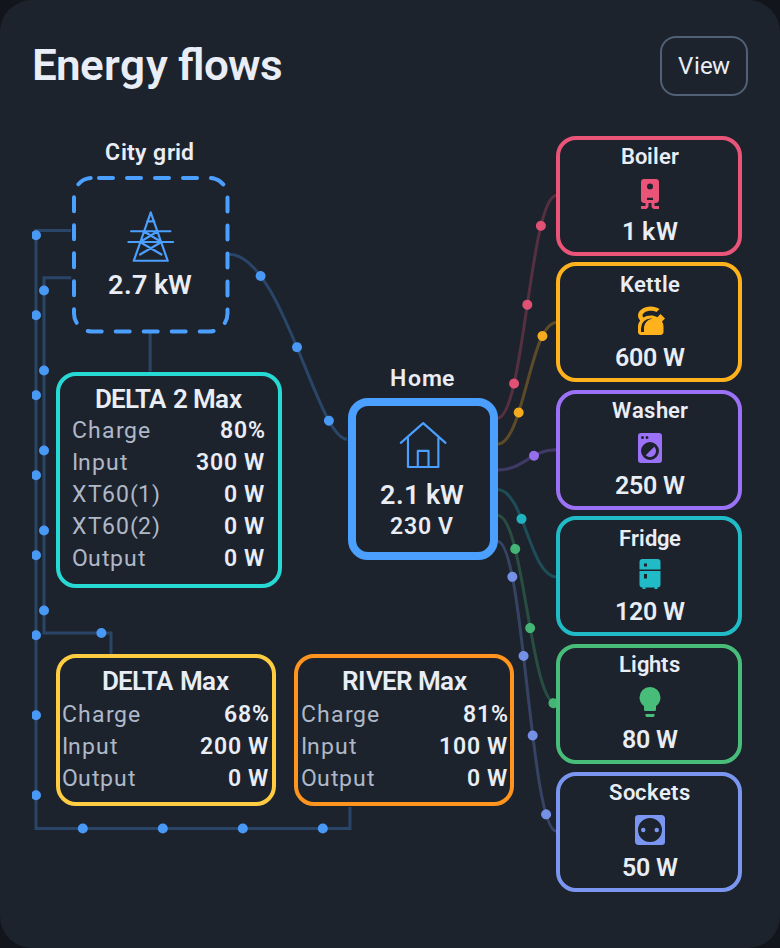
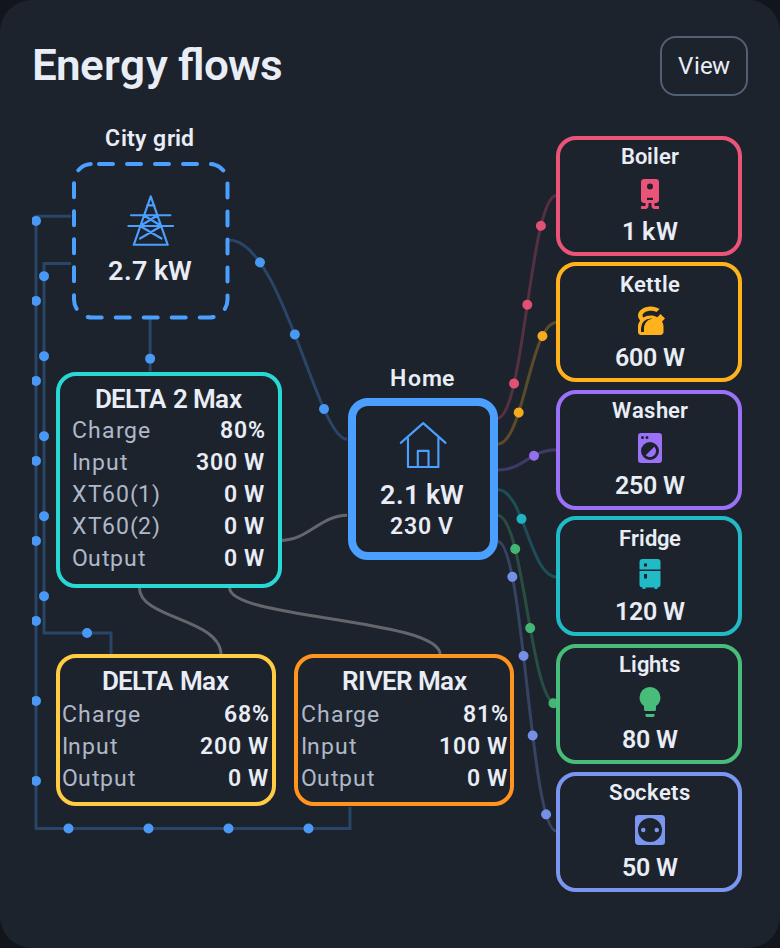
Beta 2.1.3: show grey inactive flows and slightly raise the city grid

diff --git a/suris-ecoflow-flow-card.js b/suris-ecoflow-flow-card.js
@@ -1,8 +1,8 @@
-/* Suris EcoFlow Flow Card v2.1.3-beta.2 | MIT | No external dependencies. */
+/* Suris EcoFlow Flow Card v2.1.3-beta.3 | MIT | No external dependencies. */
 (() => {
   'use strict';
   const TAG = 'suris-ecoflow-flow-card';
-  const VERSION = '2.1.3-beta.2';
+  const VERSION = '2.1.3-beta.3';
   const ANIMATIONS = ['dashes', 'dots', 'arrows', 'pulse', 'single_dot'];
   const NS = 'http://www.w3.org/2000/svg';
   let cardSequence = 0;
@@ -185,7 +185,7 @@
     *{box-sizing:border-box}ha-card{display:block;overflow:hidden;background:var(--ha-card-background,var(--card-background-color,#1c1c1c));color:var(--primary-text-color,#e8e8e8);padding:16px;border-radius:var(--ha-card-border-radius,16px)}
     .wrap{container-type:inline-size}h2{font-size:22px;font-weight:600;margin:0}.card-header{display:flex;align-items:center;justify-content:space-between;gap:8px;margin-bottom:8px}.card-header h2{min-width:0;overflow-wrap:anywhere}.layout-switch{flex:none;font:inherit;font-size:12px;color:inherit;background:transparent;border:1px solid var(--divider-color,#60656d);border-radius:8px;padding:5px 8px;cursor:pointer}.layout-switch[hidden]{display:none}.layout-switch:focus-visible{outline:2px solid var(--flow-main);outline-offset:2px}.diagram{position:relative;height:clamp(540px,65cqw,720px)}
     .lines{position:absolute;inset:0;width:100%;height:100%;overflow:visible;pointer-events:none}
-    .flow path{fill:none;stroke:color-mix(in srgb,var(--primary-text-color,#9aa0a6) 55%,transparent);stroke-width:1.5;stroke-linejoin:miter;stroke-linecap:butt;opacity:.40}.flow .flow-track{visibility:hidden}.flow.active .flow-track{stroke:var(--color);opacity:.28;visibility:visible}.flow .flow-dashes{stroke:var(--color);stroke-width:3;stroke-linecap:round;stroke-dasharray:7 21;opacity:.95;visibility:hidden}.flow.active .flow-dashes{visibility:visible}
+    .flow path{fill:none;stroke:color-mix(in srgb,var(--primary-text-color,#9aa0a6) 55%,transparent);stroke-width:1.5;stroke-linejoin:miter;stroke-linecap:butt;opacity:.40}.flow .flow-track{stroke:#9e9e9e;opacity:.55;visibility:visible}.flow.active .flow-track{stroke:var(--color);opacity:.28;visibility:visible}.flow .flow-dashes{stroke:var(--color);stroke-width:3;stroke-linecap:round;stroke-dasharray:7 21;opacity:.95;visibility:hidden}.flow.active .flow-dashes{visibility:visible}
     .node{position:absolute;display:flex;flex-direction:column;justify-content:center;gap:7px;min-width:0;background:transparent;background:color-mix(in srgb,var(--ha-card-background,var(--card-background-color,#1c1c1c)) 8%,transparent);border:2px solid var(--node-color,var(--divider-color,#60656d));border-radius:12px;padding:12px 10px;z-index:1;min-height:140px;height:auto}
     .flow .flow-particle{fill:var(--color);stroke:none;opacity:.95;visibility:hidden;offset-anchor:0px 0px;offset-rotate:auto}.flow.active .flow-particle{visibility:visible}
     .node.supplying{border-color:transparent}.node-border{position:absolute;overflow:visible;pointer-events:none;display:none;z-index:2}.node-border.active{display:block}.node-border path{fill:none;stroke:var(--node-color);stroke-width:2;stroke-linecap:round;stroke-dasharray:7 7}
@@ -465,7 +465,7 @@
       };
       const gridSize = Math.max(74, Math.min(110, 88 * sx));
       const gridTitleSpace = this._config.grid.show_name ? Math.ceil(this._nodes.grid.querySelector('h3').getBoundingClientRect().height) + 6 : 0;
-      place(this._nodes.grid, Math.max(14, 22 * sx), 12 * sy + gridTitleSpace, gridSize, gridSize);
+      place(this._nodes.grid, Math.max(14, 22 * sx), 4 * sy + gridTitleSpace, gridSize, gridSize);
       place(this._nodes.main, Math.max(12, 10 * sx), 0, 126 * sx);
       place(this._nodes.home, 176 * sx, 0, 84 * sx);
       this._nodes.home.style.minHeight = `${90 * sy}px`;

diff --git a/demo.html b/demo.html
@@ -1,5 +1,5 @@
 <!doctype html>
-<html lang="uk"><head><meta charset="utf-8"><meta name="viewport" content="width=device-width,initial-scale=1"><title>Suris EcoFlow Flow Card 2.1.3-beta.2 — Demo</title>
+<html lang="uk"><head><meta charset="utf-8"><meta name="viewport" content="width=device-width,initial-scale=1"><title>Suris EcoFlow Flow Card 2.1.3-beta.3 — Demo</title>
 <style>body{margin:20px auto;padding:0 12px;max-width:1060px;background:#111;color:#eee;font:16px system-ui;--ha-card-background:#1c1c1c;--primary-text-color:#eee;--secondary-text-color:#aaa;--divider-color:#535861}nav{display:flex;gap:8px;flex-wrap:wrap;margin:16px 0}button{background:#222;border:1px solid #666;color:#eee;padding:10px 14px;border-radius:8px;cursor:pointer}button:focus-visible{outline:2px solid #27d9d5}p{color:#aaa;font-size:13px}</style>
 </head><body><nav><button data-mode="main">Дім від EcoFlow</button><button data-mode="aux3">Передача EcoFlow №3</button><button data-mode="grid">Дім від мережі</button><button data-mode="charging">Заряджання від мережі</button><button data-mode="replace">Заміна сильнішим приладом</button><button data-mode="single">Один ряд приладів</button><button data-mode="idle">Прилади вимкнені</button><button data-mode="unknown">Джерело недоступне</button></nav><div style="display:flex;gap:18px;flex-wrap:wrap;margin:12px 0"><label>Анімація потоків <select id="animation"><option value="dashes">Поточна анімація (штрихи)</option><option value="dots">Рухомі точки</option><option value="arrows">Рухомі стрілки</option><option value="pulse">Пульсуючі світлові смуги</option><option value="single_dot">Одна рухома точка</option></select></label><label>Розмір точок <input id="dot-size" type="range" min="2" max="10" value="5"><output id="size-output">5 px</output></label></div><suris-ecoflow-flow-card></suris-ecoflow-flow-card><p>Демонстраційні показники. Для встановлення відкрий README.md.</p>
 <script src="./suris-ecoflow-flow-card.js"></script><script>

diff --git a/README.md b/README.md
@@ -1,6 +1,6 @@
-# Suris EcoFlow Flow Card 2.1.3-beta.2
+# Suris EcoFlow Flow Card 2.1.3-beta.3
 
-[English](README_EN.md) · [Стабільний реліз 2.1.1](https://github.com/Suris2009/suris-ecoflow-flow-card/releases/tag/v2.1.1) · [Завантажити JS](https://github.com/Suris2009/suris-ecoflow-flow-card/releases/download/v2.1.3-beta.2/suris-ecoflow-flow-card.js)
+[English](README_EN.md) · [Стабільний реліз 2.1.1](https://github.com/Suris2009/suris-ecoflow-flow-card/releases/tag/v2.1.1) · [Завантажити JS](https://github.com/Suris2009/suris-ecoflow-flow-card/releases/download/v2.1.3-beta.3/suris-ecoflow-flow-card.js)
 
 **Бета на базі 2.1.1.** У HACS увімкни показ бета-версій. [Зміни](RELEASE_NOTES.md).
 
@@ -13,7 +13,7 @@
 - **Окремі маршрути до приладів.** У «Боковому потоці» кожен споживач має повну власну лінію від дому в кольорі приладу. У класичному вигляді точки та стрілки проходять спільну лінію й повертають до свого споживача.
 - **Настроювані кольори.** Окремі кольори міської мережі, кожної станції та кожного приладу. Є готові зразки, палітра, змішування відтінку, насиченості й яскравості та повернення типового кольору. Рамка дому автоматично має колір його джерела живлення.
 - **П’ять анімацій.** Рухомі штрихи, точки, стрілки, пульсуючі світлові смуги та одна рухома точка. Розмір точок регулюється від 2 до 10 px.
-- **Регулювання швидкості та порога активності.** Загальну швидкість руху можна змінювати в редакторі, а кожна лінія додатково реагує на свою потужність. Оновлення показників змінює швидкість без перезапуску анімації. Неактивні лінії приховані.
+- **Регулювання швидкості та порога активності.** Загальну швидкість руху можна змінювати в редакторі, а кожна лінія додатково реагує на свою потужність. Оновлення показників змінює швидкість без перезапуску анімації. Неактивні лінії залишаються видимими, сірими й нерухомими.
 - **Усі основні показники.** Заряд, вхід і вихід трьох станцій; два входи XT60(1)/XT60(2) головної EcoFlow. Для дому — потужність і необов’язковий датчик напруги. Значення автоматично відображаються у W або kW.
 - **Автоматичне визначення живлення дому.** Джерело визначається за показаннями потужності. Окремий датчик потужності дому необов’язковий: картка може використовувати вихід головної EcoFlow або розрахунок від мережі з відніманням заряджання станцій.
 - **Попередження про відсутність мережі.** За налаштованим датчиком у блоці мережі блимає напис «Мережі немає». Джерела, що віддають енергію, мають рухомі пунктирні рамки за годинниковою стрілкою; рамка дому залишається суцільною.
@@ -36,11 +36,11 @@
 
 ## Встановлення та оновлення
 
-Додай `https://github.com/Suris2009/suris-ecoflow-flow-card` як користувацький репозиторій HACS для карток панелі огляду (Dashboard), встанови **2.1.3-beta.2** та перезавантаж інтерфейс Home Assistant. Додай картку **Suris EcoFlow Flow Card** на панель і вибери сутності у візуальному редакторі.
+Додай `https://github.com/Suris2009/suris-ecoflow-flow-card` як користувацький репозиторій HACS для карток панелі огляду (Dashboard), встанови **2.1.3-beta.3** та перезавантаж інтерфейс Home Assistant. Додай картку **Suris EcoFlow Flow Card** на панель і вибери сутності у візуальному редакторі.
 
 Ресурс HACS: `/hacsfiles/suris-ecoflow-flow-card/suris-ecoflow-flow-card.js`, тип **JavaScript module**. Якщо ресурс уже додано, використовується той самий файл.
 
-Для ручного встановлення завантаж JS-файл із релізу, поклади його до `www` у каталозі конфігурації Home Assistant та додай ресурс `/local/suris-ecoflow-flow-card.js?v=2.1.3-beta.2` типу **JavaScript module**. Якщо каталог `www` створено вперше, перезапусти Home Assistant.
+Для ручного встановлення завантаж JS-файл із релізу, поклади його до `www` у каталозі конфігурації Home Assistant та додай ресурс `/local/suris-ecoflow-flow-card.js?v=2.1.3-beta.3` типу **JavaScript module**. Якщо каталог `www` створено вперше, перезапусти Home Assistant.
 
 При оновленні зі стабільної 2.0.8 або бети 2.1 налаштування сутностей, приладів, кольорів і анімації зберігаються. Наявні картки початково використовують класичне розташування; збережений у браузері вибір бокового вигляду також залишається. Дублювати картку чи JS-ресурс не потрібно.
 
@@ -123,7 +123,7 @@ appearance:
 
 Колір джерела застосовується до його рамки й вихідних потоків. Дім має колір активного джерела; у боковому вигляді індивідуальні лінії мають кольори приладів. Активні рамки джерел рухаються за годинниковою стрілкою; рамка дому товща, суцільна й нерухома.
 
-Анімації виконує браузер без покадрових JavaScript-таймерів. При приховуванні неактивної лінії або від’єднанні картки рух призупиняється. За системного зменшення руху активні лінії статичні.
+Анімації виконує браузер без покадрових JavaScript-таймерів. На неактивних лініях або після від’єднання картки рух призупиняється. За системного зменшення руху активні лінії статичні.
 
 ## Демонстрація та перевірки
 

diff --git a/RELEASE_NOTES.md b/RELEASE_NOTES.md
@@ -1,29 +1,23 @@
-# 2.1.3-beta.2 — Minimal changes to 2.1.1 / Мінімальні зміни до 2.1.1
+# 2.1.3-beta.3 — Grey inactive flows / Сірі неактивні потоки
 
 ## Українська
 
-Випуск підготовлено заново з вихідної стабільної версії **2.1.1**.
+Дві зміни від **2.1.3-beta.2**:
 
-- Прибрано рядок «Мережа» з головної станції.
-- Допоміжні станції розширено для показників до **1,25 kW** в одному рядку. Розмір шрифту збережено, ширина не залежить від показань датчиків.
-- Вихід потоку місто → дім розміщено по центру правої сторони міського блоку.
+- Неактивні потоки показано нерухомими сірими лініями в обох виглядах. Активні потоки зберігають свої кольори та анімації.
+- У боковому вигляді міську мережу піднято на 8 px з урахуванням масштабу картки, щоб трохи подовжити лінію до головної станції. Вихід до дому залишається по центру міського блоку.
 
-Форма кривих потоків, положення нижнього ряду, анімації та розрахунки залишаються як у 2.1.1. AC-датчик залишається в налаштуваннях для розрахунків і потоку заряджання головної станції.
+Інші блоки, ширина допоміжних станцій, форма кривих, шрифти, налаштування та розрахунки збережені.
 
-На вузьких екранах із 5–6 приладами ширші допоміжні блоки та їхні потоки можуть накладатися на нижні прилади. Нижній ряд зберігає початкове розташування 2.1.1.
-
-<img src="https://raw.githubusercontent.com/Suris2009/suris-ecoflow-flow-card/v2.1.3-beta.2/preview-sideflow-feedback-uk.png" width="390" alt="Початкові криві потоків 2.1.1 з трьома мінімальними змінами">
+<img src="https://raw.githubusercontent.com/Suris2009/suris-ecoflow-flow-card/v2.1.3-beta.3/preview-sideflow-feedback-uk.png" width="390" alt="Сірі неактивні потоки та трохи піднятий міський блок">
 
 ## English
 
-Rebuilt from the original stable **2.1.1** source.
+Two changes from **2.1.3-beta.2**:
 
-- Remove the Grid row from the main station.
-- Widen the auxiliary stations to display readings up to **1.25 kW** on one line. Retain the text size and fixed widths independent of sensor readings.
-- Place the city-to-Home outlet at the midpoint of the city block's right edge.
+- Show inactive flows as stationary grey lines in both views. Active flows retain their colors and animations.
+- In Side flow, raise the city grid by 8 px, scaled with the card, to slightly lengthen the line to the main station. The Home outlet remains at the city block's midpoint.
 
-Flow curves, the lower-row position, animations and power calculations retain their 2.1.1 behavior. The AC entity remains configured for calculations and the main station's grid charging flow.
+Other blocks, auxiliary station widths, flow curves, fonts, settings and calculations are retained.
 
-On narrow screens with 5–6 consumers, wider auxiliary blocks and their flows may overlap lower consumers. The lower row retains its original 2.1.1 position.
-
-<img src="https://raw.githubusercontent.com/Suris2009/suris-ecoflow-flow-card/v2.1.3-beta.2/preview-sideflow-feedback-en.png" width="390" alt="Original 2.1.1 flow curves with three minimal changes">
+<img src="https://raw.githubusercontent.com/Suris2009/suris-ecoflow-flow-card/v2.1.3-beta.3/preview-sideflow-feedback-en.png" width="390" alt="Grey inactive flows and a slightly raised city block">

diff --git a/README_EN.md b/README_EN.md
@@ -1,6 +1,6 @@
-# Suris EcoFlow Flow Card 2.1.3-beta.2
+# Suris EcoFlow Flow Card 2.1.3-beta.3
 
-[Українська](README.md) · [Stable release 2.1.1](https://github.com/Suris2009/suris-ecoflow-flow-card/releases/tag/v2.1.1) · [Download JS](https://github.com/Suris2009/suris-ecoflow-flow-card/releases/download/v2.1.3-beta.2/suris-ecoflow-flow-card.js)
+[Українська](README.md) · [Stable release 2.1.1](https://github.com/Suris2009/suris-ecoflow-flow-card/releases/tag/v2.1.1) · [Download JS](https://github.com/Suris2009/suris-ecoflow-flow-card/releases/download/v2.1.3-beta.3/suris-ecoflow-flow-card.js)
 
 **Beta based on 2.1.1.** Enable beta versions in HACS. [Changes](RELEASE_NOTES.md).
 
@@ -13,7 +13,7 @@ A Home Assistant energy flow card that brings the city grid, three EcoFlow stati
 - **Complete routes to each device.** In Side flow, every consumer has a separate, complete line from Home in its own color. In Classic, dots and arrows follow the shared feeder and turn into the appropriate consumer branch.
 - **Custom colors.** Set separate colors for the city grid, each station and each device. Choose presets, use a palette, mix hue, saturation and lightness, or restore defaults. Home’s border automatically takes the color of its power source.
 - **Five animations.** Moving dashes, dots, arrows, pulsing light strips and one moving dot. Dot size is adjustable from 2 to 10 px.
-- **Adjustable speed and activity threshold.** Set the overall movement speed in the editor; each line also responds to its own power. Live readings adjust speed without restarting the animation. Inactive connections stay hidden.
+- **Adjustable speed and activity threshold.** Set the overall movement speed in the editor; each line also responds to its own power. Live readings adjust speed without restarting the animation. Inactive connections remain visible as stationary grey lines.
 - **All key readings.** Battery charge, input and output for three stations; two XT60(1)/XT60(2) inputs for the main EcoFlow. Home shows power and optional voltage. Values automatically use W or kW.
 - **Automatic Home source detection.** Power readings determine the source. A separate Home power sensor is optional: the card can use main EcoFlow output or calculate Home demand from grid power minus station charging.
 - **Grid outage warning.** An optional availability sensor triggers a pulsing No grid message inside the grid block. Supplying sources have clockwise moving dashed borders; Home retains a solid border.
@@ -36,11 +36,11 @@ Screenshots of the actual card with demonstration readings. Station names, entit
 
 ## Installation and upgrades
 
-Add `https://github.com/Suris2009/suris-ecoflow-flow-card` as a HACS custom Dashboard repository, install **2.1.3-beta.2**, and reload the Home Assistant frontend. Add **Suris EcoFlow Flow Card** to your dashboard and select entities in the visual editor.
+Add `https://github.com/Suris2009/suris-ecoflow-flow-card` as a HACS custom Dashboard repository, install **2.1.3-beta.3**, and reload the Home Assistant frontend. Add **Suris EcoFlow Flow Card** to your dashboard and select entities in the visual editor.
 
 HACS resource: `/hacsfiles/suris-ecoflow-flow-card/suris-ecoflow-flow-card.js`, type **JavaScript module**. An existing resource continues to use the same file.
 
-For manual installation, download the release JS file, put it in `www` under your Home Assistant configuration directory, and add `/local/suris-ecoflow-flow-card.js?v=2.1.3-beta.2` as a **JavaScript module** resource. Restart Home Assistant if you have just created `www` for the first time.
+For manual installation, download the release JS file, put it in `www` under your Home Assistant configuration directory, and add `/local/suris-ecoflow-flow-card.js?v=2.1.3-beta.3` as a **JavaScript module** resource. Restart Home Assistant if you have just created `www` for the first time.
 
 Upgrading from stable 2.0.8 or a 2.1 beta retains entities, consumers, colors and animation settings. Existing configurations initially use Classic; a Side flow selection already saved in the browser is also retained. No duplicate card or resource is needed.
 

diff --git a/CHANGELOG.md b/CHANGELOG.md
@@ -1,3 +1,27 @@
+# 2.1.3-beta.3 — Grey inactive flows / Сірі неактивні потоки
+
+## Українська
+
+Дві зміни від **2.1.3-beta.2**:
+
+- Неактивні потоки показано нерухомими сірими лініями в обох виглядах. Активні потоки зберігають свої кольори та анімації.
+- У боковому вигляді міську мережу піднято на 8 px з урахуванням масштабу картки, щоб трохи подовжити лінію до головної станції. Вихід до дому залишається по центру міського блоку.
+
+Інші блоки, ширина допоміжних станцій, форма кривих, шрифти, налаштування та розрахунки збережені.
+
+<img src="https://raw.githubusercontent.com/Suris2009/suris-ecoflow-flow-card/v2.1.3-beta.3/preview-sideflow-feedback-uk.png" width="390" alt="Сірі неактивні потоки та трохи піднятий міський блок">
+
+## English
+
+Two changes from **2.1.3-beta.2**:
+
+- Show inactive flows as stationary grey lines in both views. Active flows retain their colors and animations.
+- In Side flow, raise the city grid by 8 px, scaled with the card, to slightly lengthen the line to the main station. The Home outlet remains at the city block's midpoint.
+
+Other blocks, auxiliary station widths, flow curves, fonts, settings and calculations are retained.
+
+<img src="https://raw.githubusercontent.com/Suris2009/suris-ecoflow-flow-card/v2.1.3-beta.3/preview-sideflow-feedback-en.png" width="390" alt="Grey inactive flows and a slightly raised city block">
+
 # 2.1.3-beta.2 — Minimal changes to 2.1.1 / Мінімальні зміни до 2.1.1
 
 ## Українська
